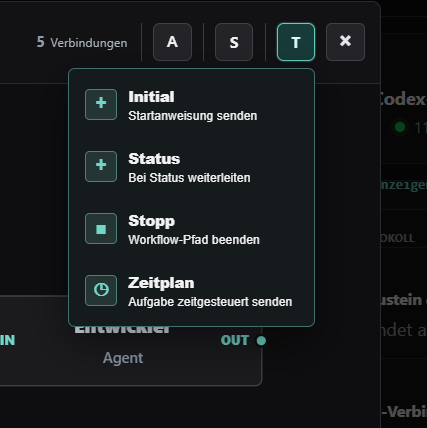
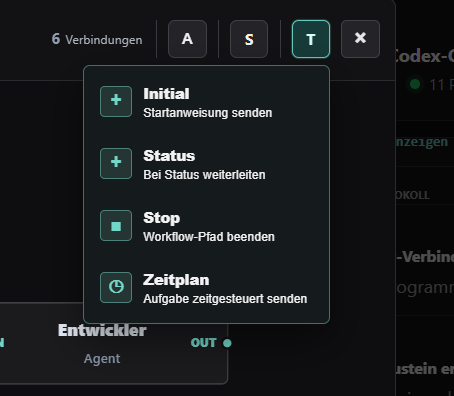
Refresh README screenshots

diff --git a/README.md b/README.md
@@ -78,6 +78,8 @@ Bausteine werden per Doppelklick konfiguriert. Ein einfacher Klick wählt einen 
 
 Status werden projektweit im `Status-Setup` angelegt. Jeder Eintrag besteht aus einem Namen und einer eindeutigen Bedeutung. Im Agenten-Setup wird ausgewählt, welche Status der Agent verwenden darf. Dadurch erhält der Agent die erlaubten Status samt Beschreibung automatisch als Arbeitskontext.
 
+![Status Setup mit projektweiter Statusliste](bilder/Status_Setup.PNG)
+
 Beispiel:
 
 | Status | Bedeutung |